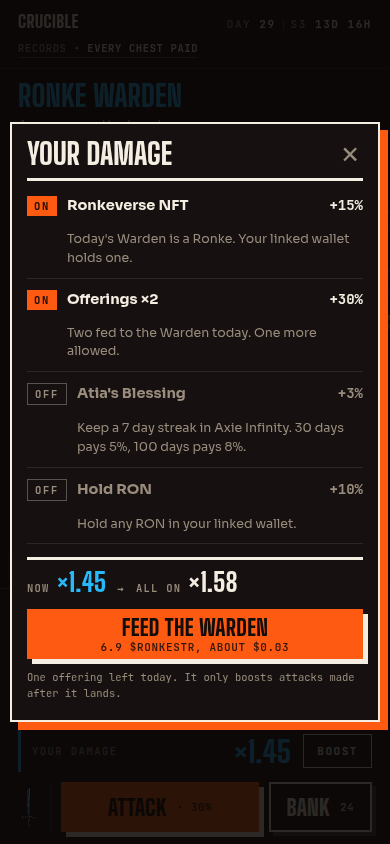
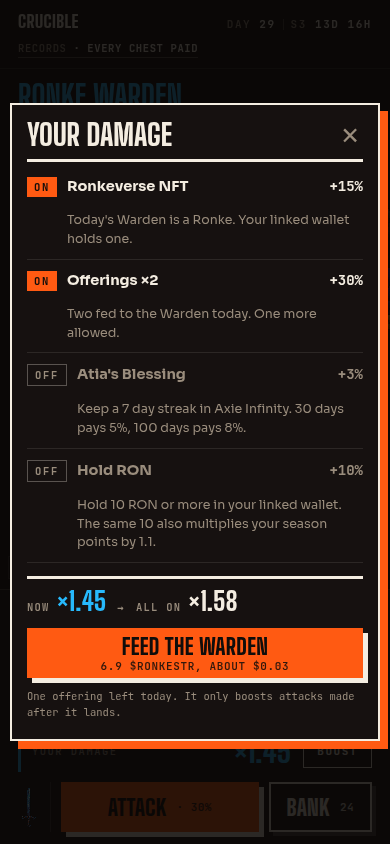
arena: D rev4

Changed region(s): [[0.0, 0.1232, 1.0, 0.8934], [0.7692, 0.4313, 0.9231, 0.5237]]

diff --git a/mockups/arena/arena-d-synthesis.html b/mockups/arena/arena-d-synthesis.html
@@ -265,21 +265,19 @@ button{font:inherit;color:inherit;background:none;border:0;cursor:pointer}
   font-family:var(--mono);font-size:12px;font-weight:600;
   letter-spacing:.2em;text-transform:uppercase;
 }
-.line .st{display:flex;align-items:center;gap:8px;color:rgba(244,237,225,.34)}
-.line .chev{color:rgba(244,237,225,.26);margin:0 11px;font-size:14px;letter-spacing:0}
-.line .st.done{color:rgba(244,237,225,.5)}
+/* The sequence has exactly TWO states and one marker. Every station is set
+   identically; the only thing that varies is whether you are standing on it.
+   Earlier versions gave Offer its own colour, Forge a "done" grey, Bank a
+   "ready" weight and Offer a small "optional" tag, which is five treatments
+   in a five-word line and reads as noise rather than as an order. */
+.line .st{display:flex;align-items:center;gap:8px;color:rgba(244,237,225,.42)}
+.line .chev{color:rgba(244,237,225,.22);margin:0 12px;font-size:13px;letter-spacing:0}
 .line .st.live{color:var(--bone);font-weight:700}
-/* the one state marker in the rail, reused everywhere it is needed rather than
-   inventing a second device */
+/* the one state marker in the rail, reused rather than inventing a second */
 .line .st.live em,.status .s.risked b::before{
   content:"";font-style:normal;display:inline-block;
   width:7px;height:7px;background:var(--ember);
 }
-.line .st.ready{color:var(--bone);font-weight:700}
-/* the offering leads the sequence because it only buffs attacks that come
-   after it, but it is optional and must not read as a gate */
-.line .st.opt{color:var(--warden)}
-.line .st.opt::after{content:"optional";font-size:9.5px;letter-spacing:.1em;color:var(--muted)}
 /* the craft price has to survive into the armed state: that is where the
    repeat spending happens and every direction dropped it there */
 .line .price{margin-left:auto;color:var(--muted);letter-spacing:.1em;text-transform:none}
@@ -621,7 +619,8 @@ body[data-state="weapon"] .only-forge{display:none}
         <span class="tag">Off</span>
         <span class="nm">Hold RON</span>
         <span class="amt">+10%</span>
-        <p>Hold any RON in your linked wallet.</p>
+        <p>Hold 10 RON or more in your linked wallet. The same 10 also multiplies
+          your season points by 1.1.</p>
       </li>
     </ul>
 
@@ -708,7 +707,7 @@ body[data-state="weapon"] .only-forge{display:none}
 
     <div class="line" id="line">
       <button class="howto" id="howto">How to play</button>
-      <span class="st opt" id="stOffer">Offer</span>
+      <span class="st" id="stOffer">Offer</span>
       <span class="chev">&rsaquo;</span>
       <span class="st" id="stForge">Forge</span>
       <span class="chev">&rsaquo;</span>
@@ -776,9 +775,9 @@ body[data-state="weapon"] .only-forge{display:none}
   /* the station strip: current step is the brightest thing on the line */
   function renderLine(){
     var forging = document.body.dataset.state === 'forge';
-    $('stForge').className  = 'st' + (forging ? ' live' : ' done');
+    $('stForge').className  = 'st' + (forging ? ' live' : '');
     $('stStrike').className = 'st' + (forging ? '' : ' live');
-    $('stBank').className   = 'st' + (!forging && st.risk > 0 ? ' ready' : '');
+    $('stBank').className   = 'st';
     $('stChest').className  = 'st';
     $('stForge').innerHTML  = forging ? '<em></em>Forge' : 'Forge';
     $('stStrike').innerHTML = forging ? 'Attack' : '<em></em>Attack';

diff --git a/mockups/arena/PLAN.md b/mockups/arena/PLAN.md
@@ -339,3 +339,17 @@ devices, and a body-copy paragraph sitting next to monospaced data.
 The rail went from five type treatments to two, and from two objects on the right (offering
 copy plus an Offer button) to one.
 
+### D revision 4 (operator review, 2026-07-30)
+
+1. **The sequence itself was the busy thing**, not the rail around it. It had five
+   treatments in five words: Offer in Ronkeverse blue with a small "optional" tag, Forge in
+   a "done" grey, Attack in bone with the ember marker, Bank in a "ready" weight, Chest in
+   a third grey. It now has **exactly two states** and one marker: every station is set
+   identically, and the only thing that varies is whether you are standing on it. The
+   "optional" tag is gone from the line; step 1 of How to play already says it.
+2. **The RON buff copy was wrong.** It said "hold any RON", which understates the bar.
+   Verified against `config.js` and the live season API rather than either of our
+   recollections: the threshold is **10 RON** (`bonusThresholdRon: 10`, live and confirmed
+   on `/api/season`), and the same 10 also carries a **×1.1 season points multiplier**,
+   which the copy now says because it makes the same 10 RON pay twice.
+
